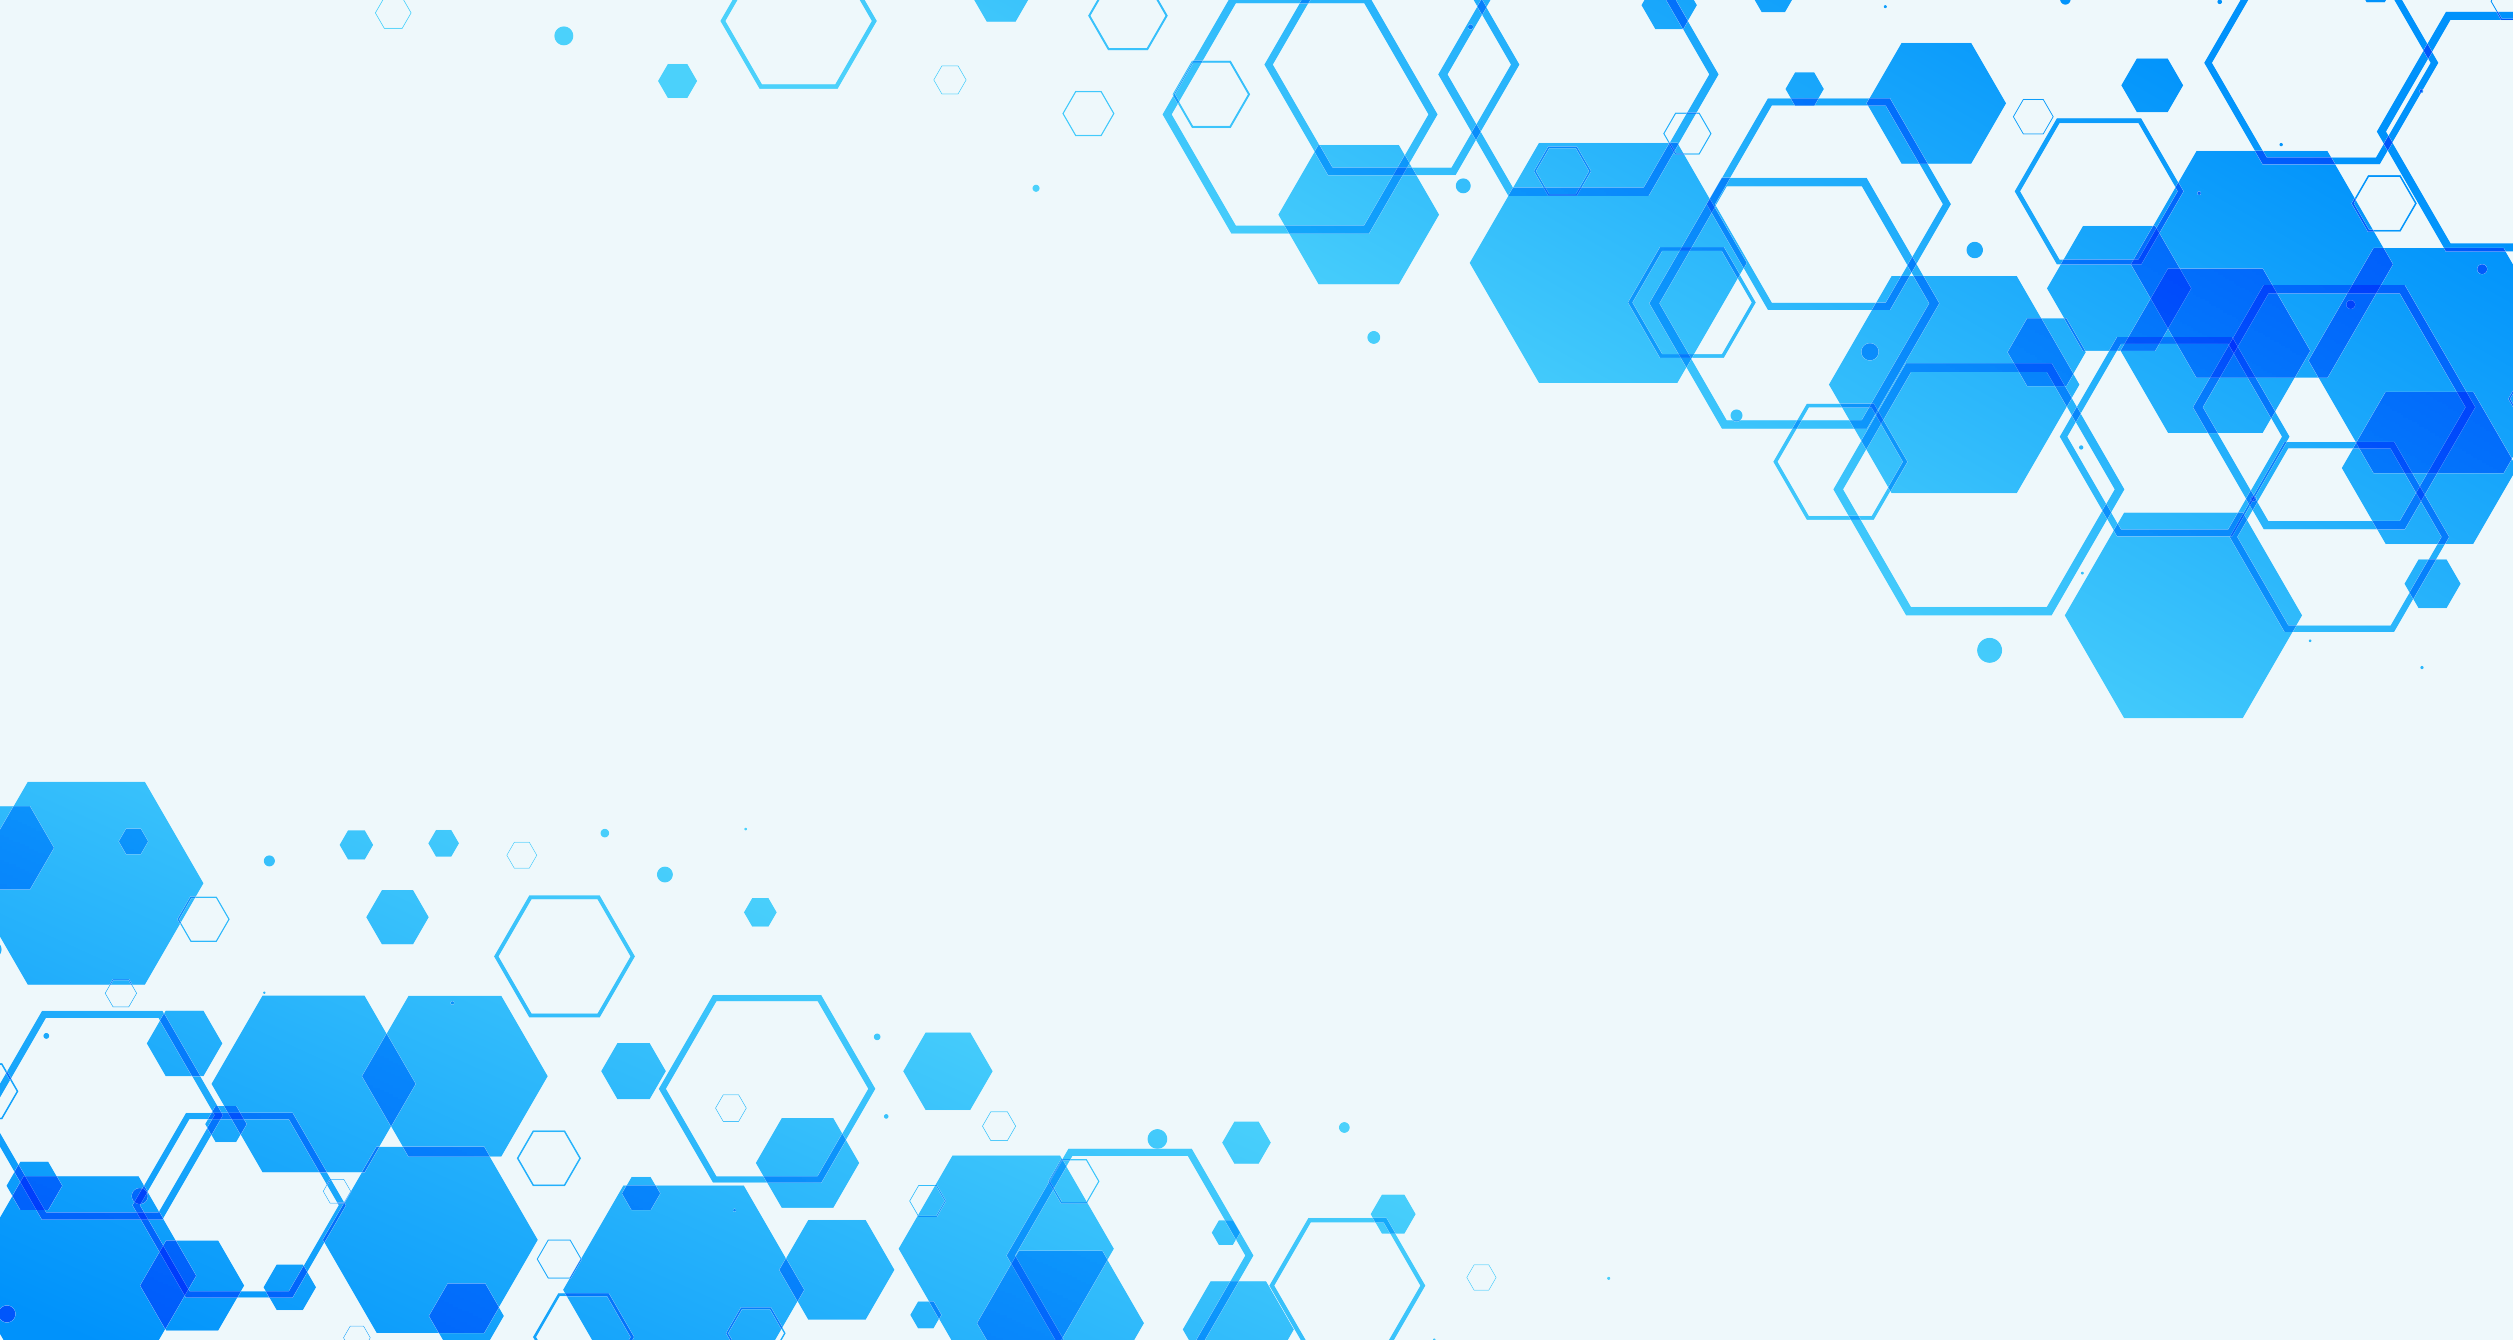
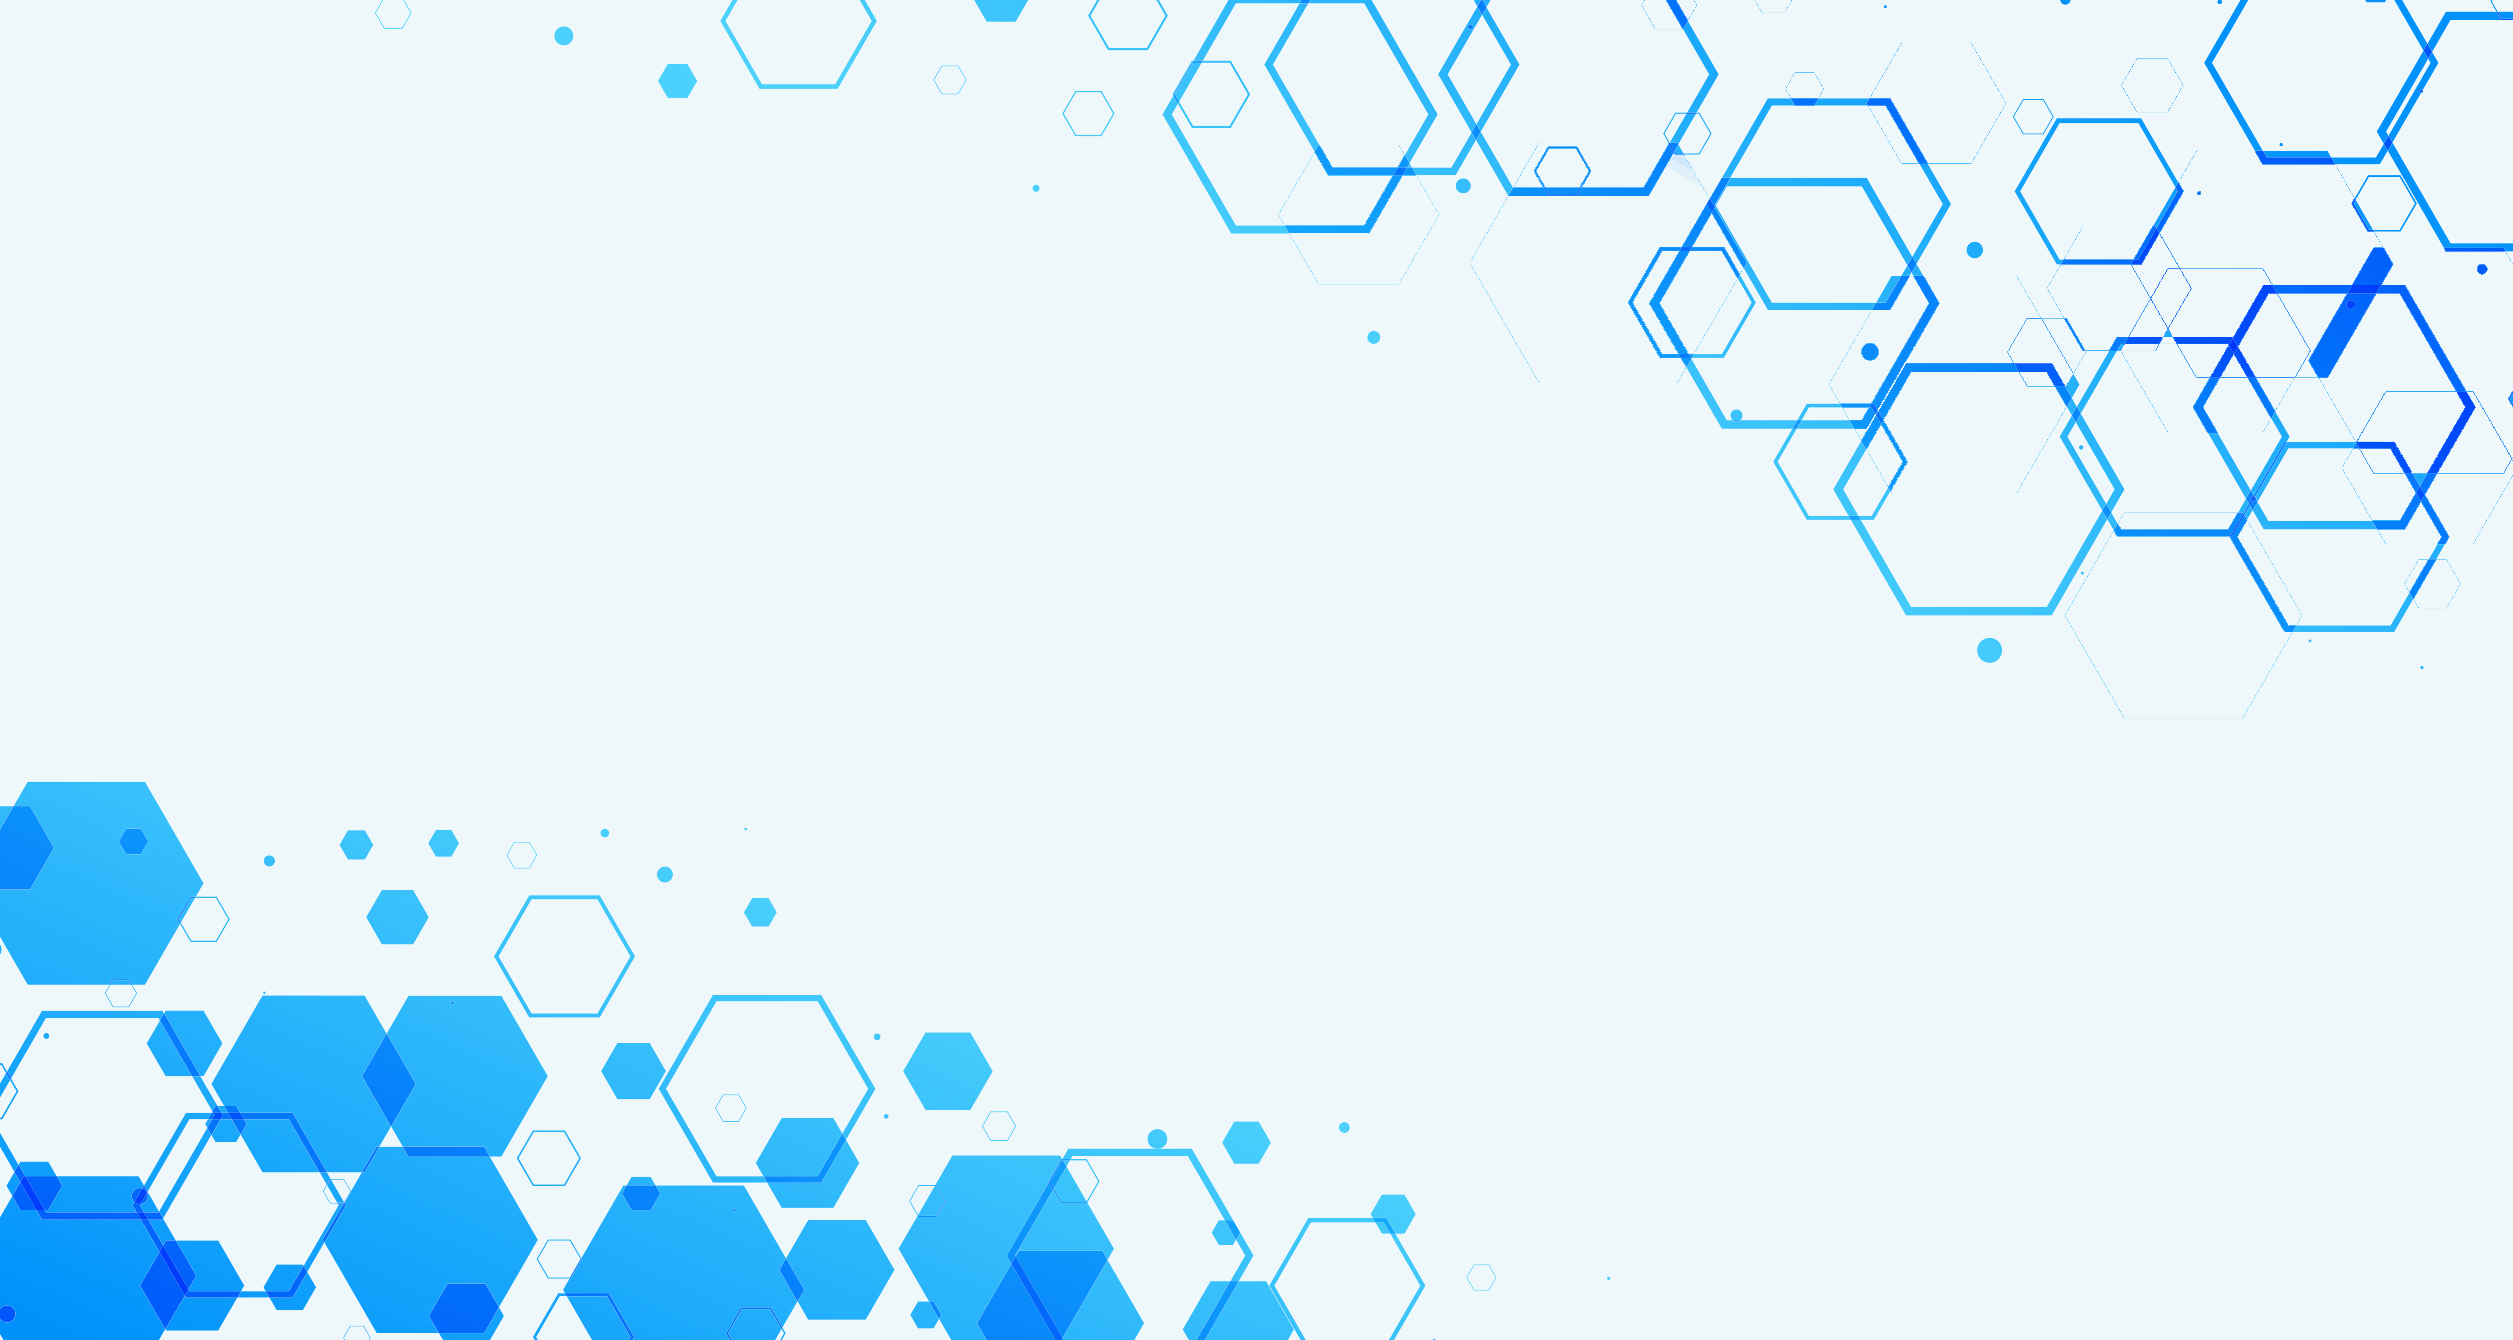
move technologies to main

diff --git a/index.html b/index.html
@@ -250,9 +250,9 @@
 
 
   <!--partners -->
-  <div class="container-fluid p-2 bg-image-2  p-5">
+  <div class="container-fluid p-2 bg-image-2  p-md-5">
 
-    <h1 class="text-dark  text-center my-4">OUR PARTNERS</h1>
+    <h1 class="text-dark  text-center my-4">Our Partners</h1>
 
     <div class="row ">
 
@@ -291,6 +291,28 @@
     </div>
   </div>
   <!--partners -->
+
+  <!-- Technologies -->
+  <div class="container-fluid p-2 p-md-5 bg-black text-center mb-5">
+
+    <div class=" p-5">
+      <h1>Technologies</h1>
+    </div>
+
+    <p>Who best to make tools for hackers, programmers and those who
+      make; than
+      hackers, programmers and makers! We are constantly contributing codes to tools because it solves
+      problems for us and we can see it solving it for others. All this tools have already been implemented
+      in
+      a real situation and it's currently serving some purpose. Feel free to fork, contribute more and make
+      them better! Build awesome things around them and help us write documentations.</p>
+
+
+    <div class="container">
+      <div class="row my-5 text-center" id="main_body"></div>
+    </div>
+
+  </div>
 
 
 
@@ -383,6 +405,7 @@
 
   <script src="/assets/js/jquery-3.4.1.min.js"></script>
   <script src="/assets/js/slick.js"></script>
+  <script src='/assets/js/fetch_technologies.js'></script>
   <script src="/assets/js/main.js"></script>
   <script src="/assets/js/bootstrap.min.js"></script>
 

diff --git a/assets/js/fetch_technologies.js b/assets/js/fetch_technologies.js
@@ -9,7 +9,7 @@ ajax.onreadystatechange = function () {
       var repo = sr[repo];
 
       var repo_name = document.createElement("h5");
-      repo_name.setAttribute("class", "text-danger  font-weight-bold");
+      repo_name.setAttribute("class", "text-white  font-weight-bold");
       repo_name.appendChild(document.createTextNode(`${repo.name} | ${repo.language}`));
 
       var repo_description = document.createElement("p");
@@ -23,13 +23,13 @@ ajax.onreadystatechange = function () {
       repo_link.appendChild(document.createTextNode("learn more"));
 
       var div = document.createElement("div");
-      div.setAttribute("class", "repo-bg p-3 rounded mx-auto mb-5 tech-card");
+      div.setAttribute("class", "bg-image-3 p-3 rounded mx-auto mb-5 repo-card shadow");
       div.appendChild(repo_name);
       div.appendChild(repo_description);
       div.appendChild(repo_link);
 
       var div_column = document.createElement("div");
-      div_column.setAttribute("class", "col-md-6");
+      div_column.setAttribute("class", "col-md-6 mb-5");
       div_column.appendChild(div);
 
       var main_body = document.getElementById("main_body");

diff --git a/assets/css/style.css b/assets/css/style.css
@@ -19,6 +19,12 @@ body {
   background-size: cover;
   background-position: center;
 }
+.bg-image-3 {
+  background-image: url("/assets/images/bg-img-1b.png");
+  background-repeat: no-repeat;
+  background-size: cover;
+  background-position: center;
+}
 
 .darken {
   filter: brightness(95%);
@@ -320,5 +326,11 @@ header {
 .tech-card img {
   height: 20rem;
   width: 20rem;
+  margin: 0 auto !important;
+}
+
+.repo-card {
+  height: 15rem;
+  width: 30rem;
   margin: 0 auto !important;
 }
